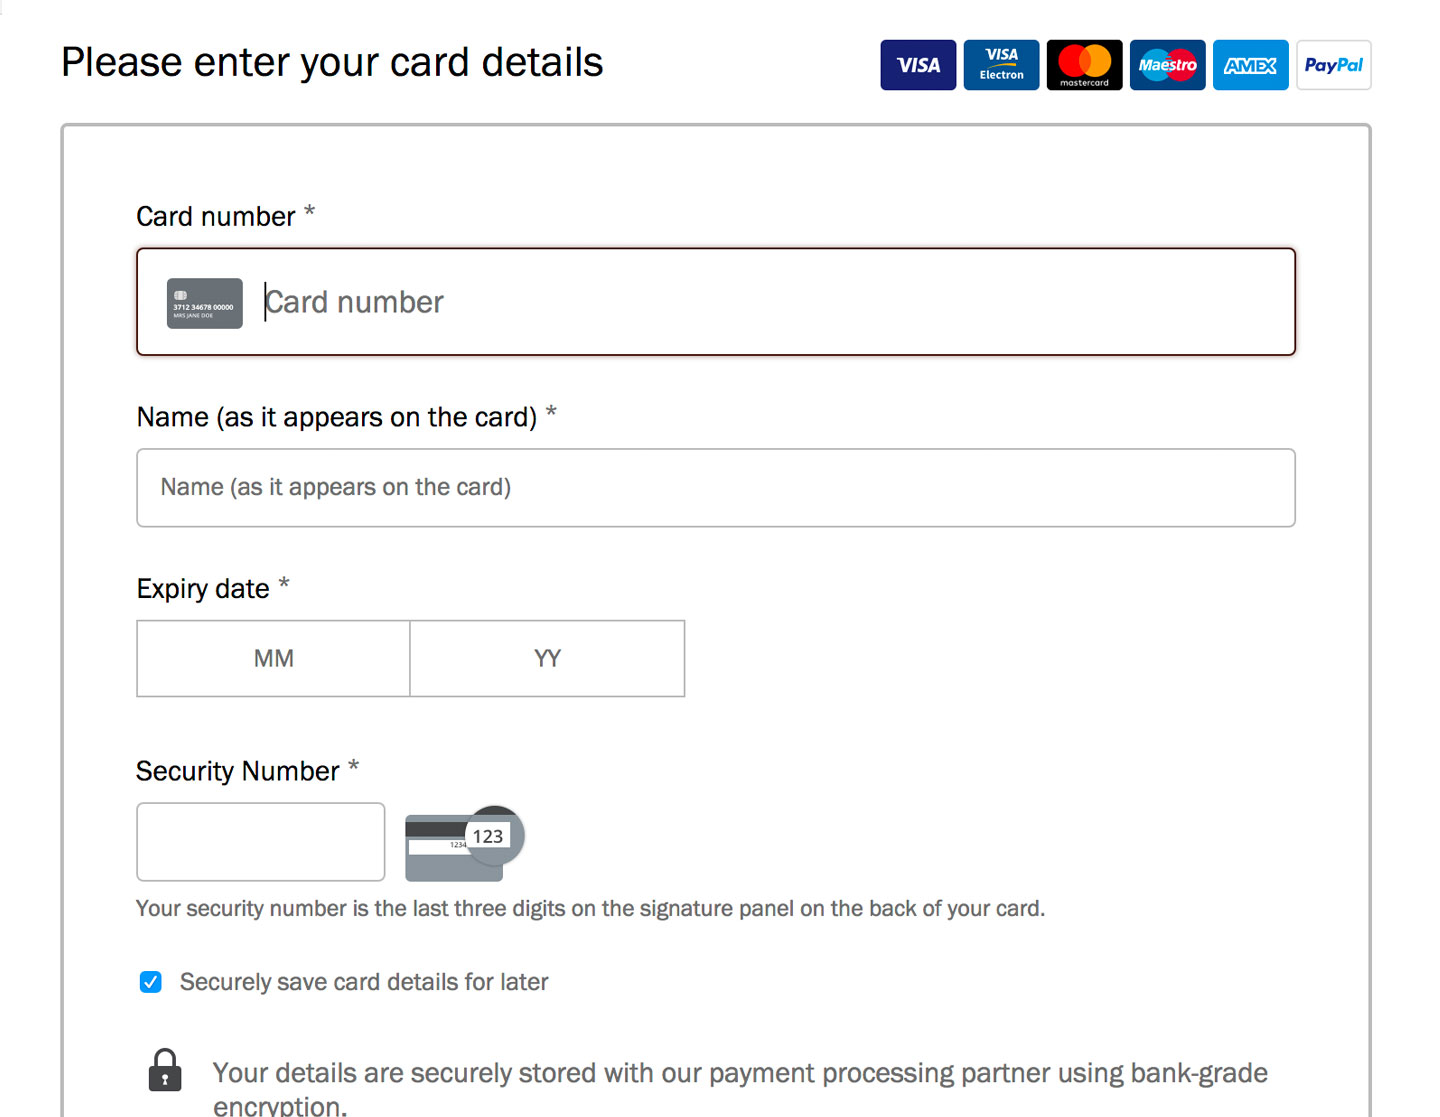
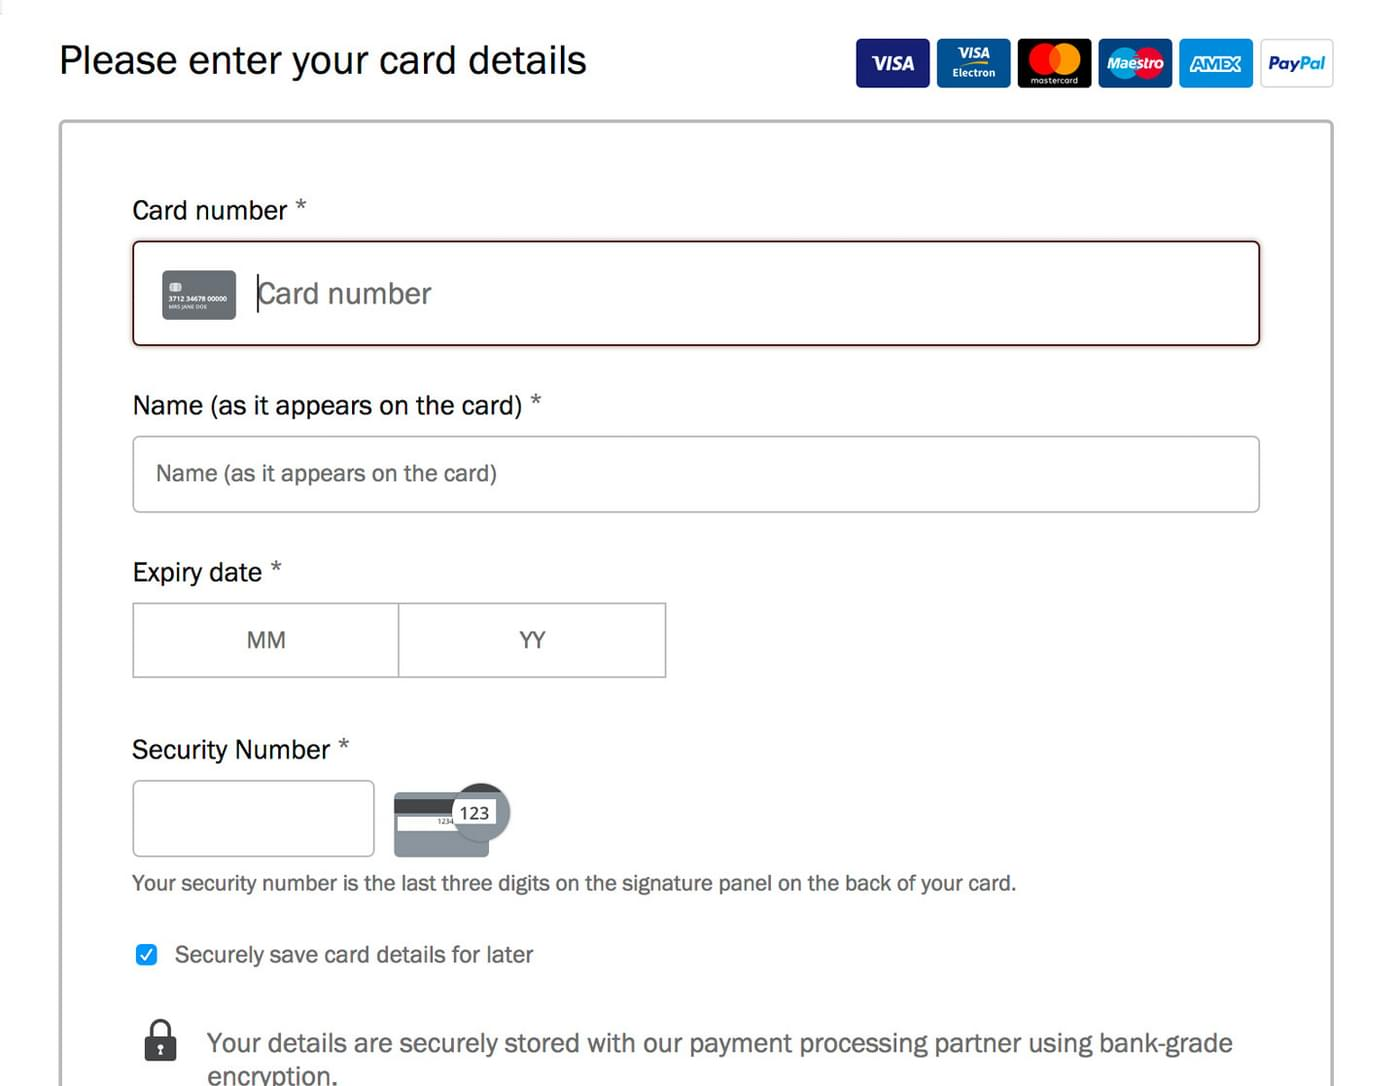
[personal] - Compress all images

diff --git a/Gruntfile.js b/Gruntfile.js
@@ -117,7 +117,7 @@ module.exports = function(grunt) {
 		},
 
 		responsive_images: {
-			myTask: {
+			resize_images: {
 				options: {
 					rename: false,
 					sizes: [{
@@ -132,17 +132,17 @@ module.exports = function(grunt) {
 				}],
 			},
 		},
-		//
-		// imagemin: {
-		// 	dynamic: {
-		// 		files: [{
-		// 			expand: true,
-		// 			cwd: '<%= project.app %>/',
-		// 			src: ['**/*.{png,jpg,gif}'],
-		// 			dest: '<%= project.app %>/'
-        //     }]
-		// 	}
-		// },
+
+		tinyimg: {
+		 dynamic: {
+		   files: [{
+			 expand: true,
+			 cwd: 'app/',
+			 src: ['**/*.{png,jpg,svg}'],
+			 dest: 'app/'
+		   }]
+		 }
+	    },
 
 		watch: {
 			concat: {
@@ -177,8 +177,13 @@ module.exports = function(grunt) {
 	    'watch',
 	]);
 
-	grunt.registerTask('images', [
+	// Note, for now requires manual moving of images because it's stupid.
+	grunt.registerTask('resize_images', [
 		'responsive_images',
+	]);
+
+	grunt.registerTask('compress_images', [
+		'tinyimg',
 	]);
 
 	grunt.registerTask('build', [
@@ -186,7 +191,6 @@ module.exports = function(grunt) {
 		'jshint',
 		'autoprefixer',
 		'uncss',
-		'imagemin',
 	]);
 
 };
